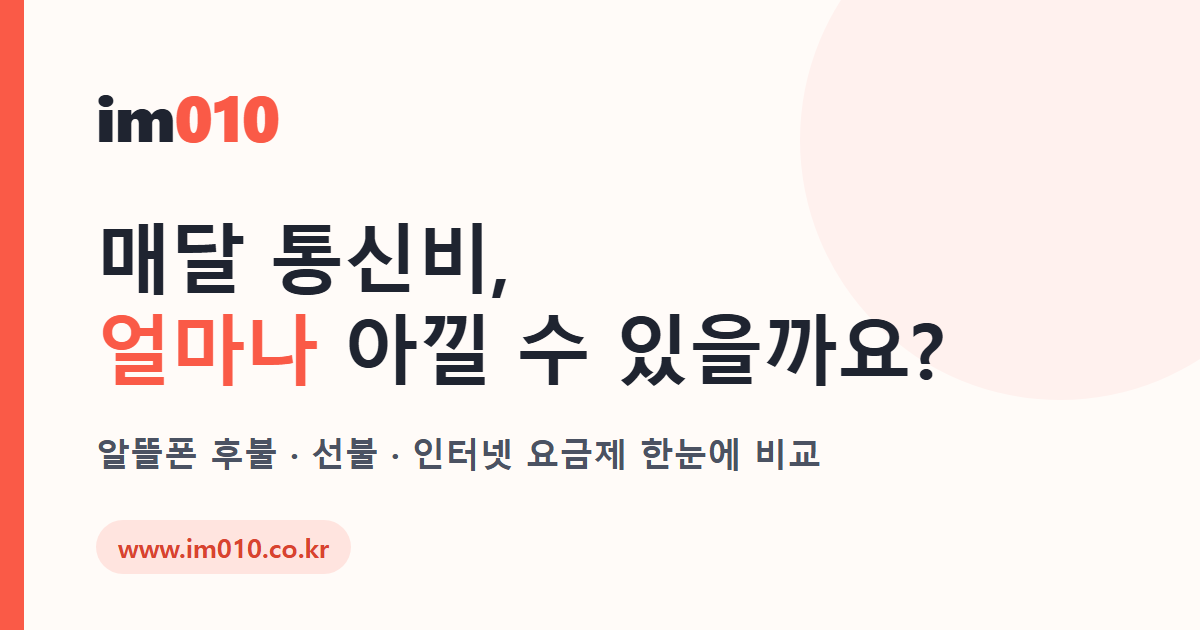
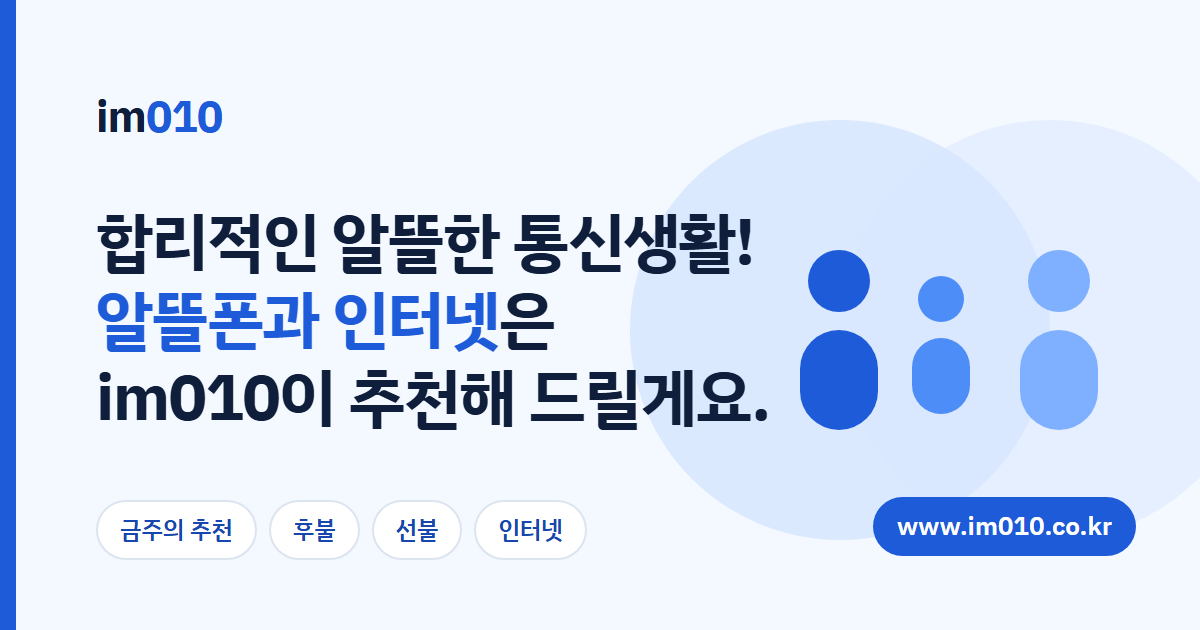
Replace the default share image with the B-1 design
The old og-default.png was the earlier coral draft. The new one uses the
B-1 blue, IBM Plex Sans KR and the home headline.

diff --git a/README.md b/README.md
@@ -237,7 +237,7 @@ im010/
   - `404.html`: 없는 경로 → nginx가 **404** (noindex, SPA가 떠서 404 화면이 보임)
   - `_shell.html`: 기본 메타만 있는 SPA 틀. **빌드 뒤에 새로 게시된 요금제 · 알뜰AI 글**은 미리 만든 HTML이 없어 이 틀로 200 응답 (Google은 JS를 실행해 읽는다)
   - `robots.txt`(`public/`): `/go/` · `/out` · `/api/` 제외 + Sitemap 위치
-  - 기본 공유 이미지 `public/og-default.png`(1200x630, 임시 디자인 — 확정본으로 같은 이름 교체). 글에 썸네일이 있으면 그 이미지
+  - 기본 공유 이미지 `public/og-default.png`(1200x630, 시안 B-1: 파랑 · IBM Plex Sans KR · 메인 문구 "합리적인 알뜰한 통신생활!"). 글에 썸네일이 있으면 그 이미지
 - **데이터 출처 = 운영 API**. 두 곳에서 만든다
   - 빌드할 때 (`npm run build`, `PRERENDER_API` 기본 `https://www.im010.co.kr`). API를 못 받으면 빌드가 멈춘다. 인터넷 없이 확인만 할 때 `PRERENDER_OFFLINE=1 npm run build` (데이터 없는 화면 — **운영 배포 금지**), 로컬 API로: `PRERENDER_API=http://localhost:8080 npm run build`
   - **운영 서버에서 매일 05:00** 다시 만든다 (아래 "매일 미리 렌더링") — 전날 게시된 알뜰AI 글 · 새 요금제 · 판매 종료(410)가 다음 날 아침 반영된다
